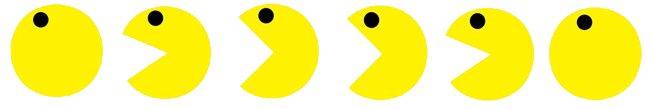
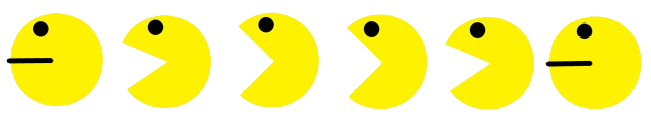
Added up and down feature

diff --git a/game-source-code/PacMan.cpp b/game-source-code/PacMan.cpp
@@ -27,8 +27,8 @@ void PacMan::move(const Maze& maze, float deltaTime, int dir) {
     //std::cout << "Grid Position: (" << gridX << ", " << gridY << ")\n";  // Debug output
 
     if (!maze.isWall(newX, newY)) {
-        x += dx*0.1;
-        y += dy*0.1;
+        x += dx*0.5;
+        y += dy*0.5;
     }
 }
 
@@ -36,6 +36,8 @@ int PacMan::draw(int frame, int dir) const {
     // Load the texture
     Texture2D manLeft = LoadTexture("../assets/pacmenLeft.png");
     Texture2D manRight = LoadTexture("../assets/pacmenRight.png");
+    Texture2D manUp = LoadTexture("../assets/pacmenUp.png");
+    Texture2D manDown = LoadTexture("../assets/pacmenDown.png");
     // Update the timer and frame
     static float timer = 0;
     timer += GetFrameTime();
@@ -70,16 +72,16 @@ int PacMan::draw(int frame, int dir) const {
     }
     else if(dir == 3){
         DrawTextureRec(
-        manLeft, 
-        Rectangle{(float)(manLeft.width / 6) * frame, 0, (float)(manLeft.width / 6), (float)(manLeft.height)}, 
+        manUp, 
+        Rectangle{(float)(manUp.width / 6) * frame, 0, (float)(manUp.width / 6), (float)(manUp.height)}, 
         Vector2{(float)pixelX, (float)pixelY}, 
         RAYWHITE
     );
     }
     else if(dir == 4){
         DrawTextureRec(
-        manRight, 
-        Rectangle{(float)(manRight.width / 6) * frame, 0, (float)(manRight.width / 6), (float)(manRight.height)}, 
+        manDown, 
+        Rectangle{(float)(manDown.width / 6) * frame, 0, (float)(manDown.width / 6), (float)(manDown.height)}, 
         Vector2{(float)pixelX, (float)pixelY}, 
         RAYWHITE
     );
